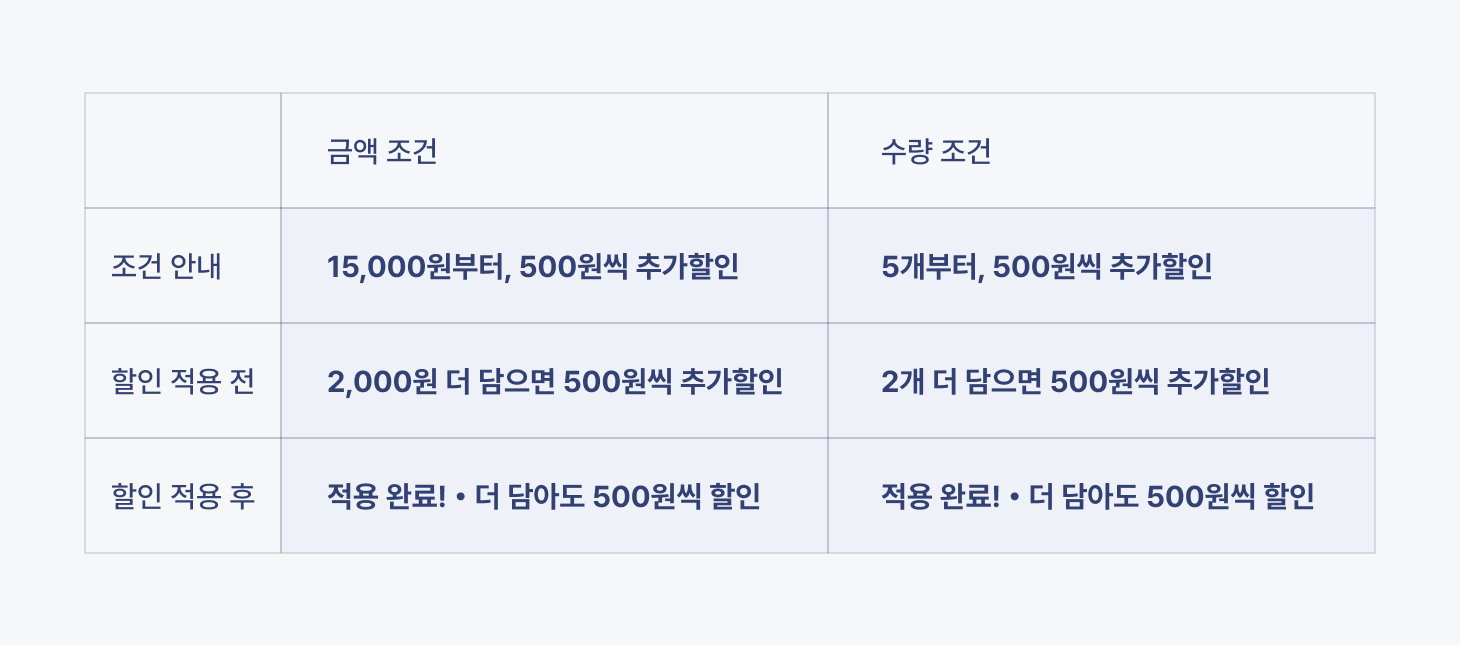
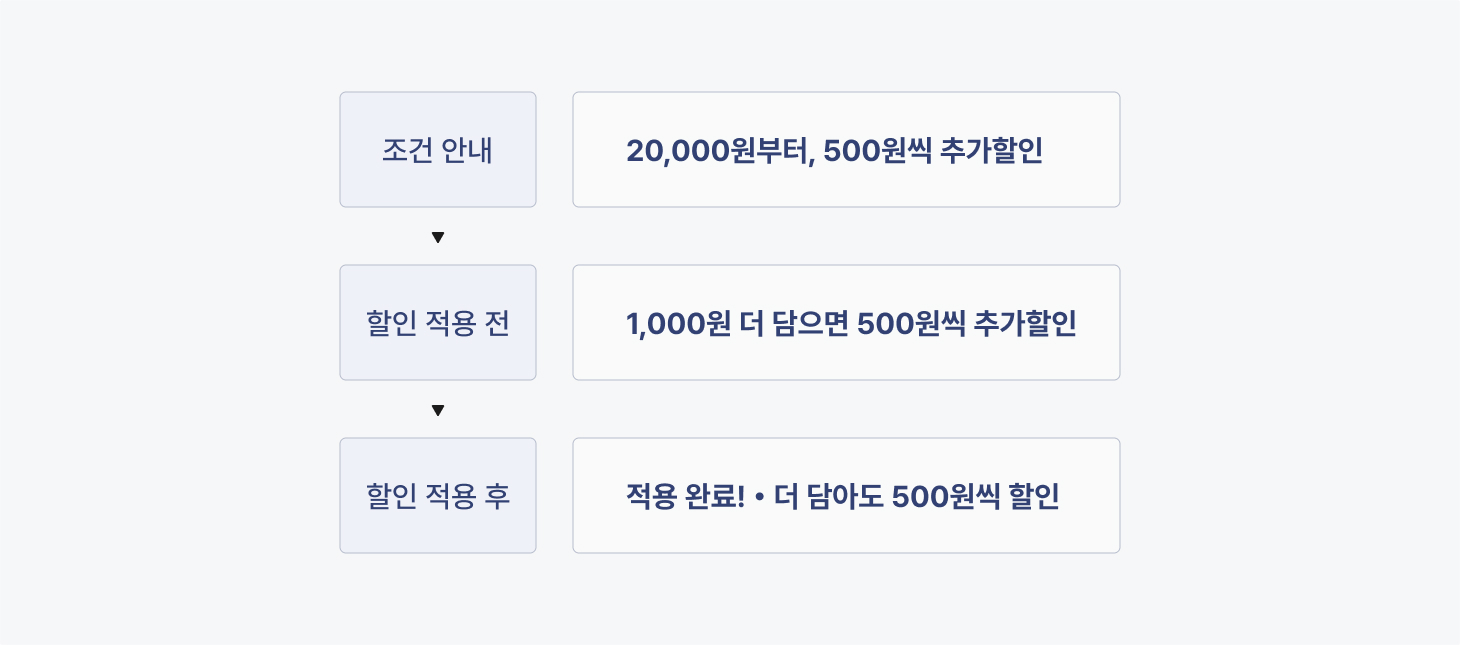
살할 업데이트

diff --git a/_projects/2024-07-01-bundle.md b/_projects/2024-07-01-bundle.md
@@ -9,7 +9,6 @@ gallery_images:
   - bundle.jpg
 # layout: protected
 # password: "hyejin"
-
 ---
 
 - **기간**: 2024.7 - 2024.8
@@ -22,13 +21,11 @@ gallery_images:
 무료배송을 오픈한지 어느덧 1개월, <br>
 아이디어스에서 판매되는 작품[^1]들은 <b>배송비가 포함되면서 전반적으로 가격이 상승</b>하게 되었어요.
 
-
-
 #### 문제
 
 ##### 고객 입장
 
-작품가격에 배송비가 어느정도 녹아있기 때문에 <br>
+작품가격에 배송비가 녹아있기 때문에 <br>
 <b>여러 개 구매 시 배송비가 중복으로 부과</b>되어 가격에 큰 부담을 느낄 수 있어요.
 
 ![](/images/projects/13_bundle/01.jpg)
@@ -39,14 +36,10 @@ gallery_images:
 
 ##### 작가님 입장
 
-판매가 설정에 어려움이 있던 작가님[^1]들로부터 VoC가 접수되었어요. <br>
+판매 금액 설정에 어려움이 있던 작가님[^1]들로부터 VoC가 접수되었어요. <br>
 현재 구조상 <b>작품마다 할인을 적용</b>해야 해서 <b>작가님 입장에서 불편함</b>이 컸어요.
 
 ![](/images/projects/13_bundle/02.jpg)
-
-
-
-
 
 #### 가설
 
@@ -71,7 +64,7 @@ gallery_images:
 할인 적용 작품을 한눈에 구분할 수 있도록 번들별로 박스 UI로 묶어주었어요.
 
 ![](/images/projects/13_bundle/03.jpg)
- 
+
 <br>
 
 ##### 2. 간편한 할인 적용
@@ -91,11 +84,15 @@ gallery_images:
 비즈니스 요구사항을 반영하면서 <b>정책이 복잡해져서 문구로 표현하는 데 어려움</b>이 있었는데요.<br>
 정책을 풀어서 설명하자면 다음과 같습니다.
 
-- 수량 조건일 때: `4개`를 담을 때부터 더 담을 때마다 `1,000원씩` 할인됩니다.
-- 금액 조건일 때: `10,000원`을 담을 때부터 더 담을 때마다 `1,000원씩` 할인됩니다.
+![](/images/projects/13_bundle/06-3.jpg)
+
+- 수량 조건일 때: `4개`를 담을 때부터 추가되는 수량마다 `1,000원씩` 할인됩니다.
+- 금액 조건일 때: `10,000원`을 담을 때부터 추가되는 수량마다 `1,000원씩` 할인됩니다.
 
 이 문구를 모든 곳에 풀어서 적을 수 없기 때문에 어떻게든 간결하게 표현할 수 있는 방법을 찾았어요.
 UX Researcher의 도움을 받아 <b>사내에서 네 차례의 Casual UT를 진행</b>했는데요.
+
+![](/images/projects/13_bundle/06-2.jpg)
 
 최종적으로는 아래와 같이 정리하게 되었어요.
 
@@ -125,12 +122,11 @@ UX Researcher의 도움을 받아 <b>사내에서 네 차례의 Casual UT를 진
 
 ![](/images/projects/13_bundle/09.jpg)
 
-
 #### 결과
 
 ##### 평균 주문 금액(AOV) 증가 및 매출 증대
 
-오픈 후 첫 2주간의 데이터를 살펴본 결과, 살수록할인을 적용해 주문한 고객의 평균 주문 금액이 `66%` 높다는 점을 확인할 수 있었어요. 
+오픈 후 첫 2주간의 데이터를 살펴본 결과, 살수록할인을 적용해 주문한 고객의 평균 주문 금액이 `66%` 높다는 점을 확인할 수 있었어요.
 
 높은 평균 주문 금액은 매출로 이어져, 살수록할인을 설정한 작가님이 설정하지 않은 작가님보다 평균 매출이 `200% 이상` 높았어요.
 
